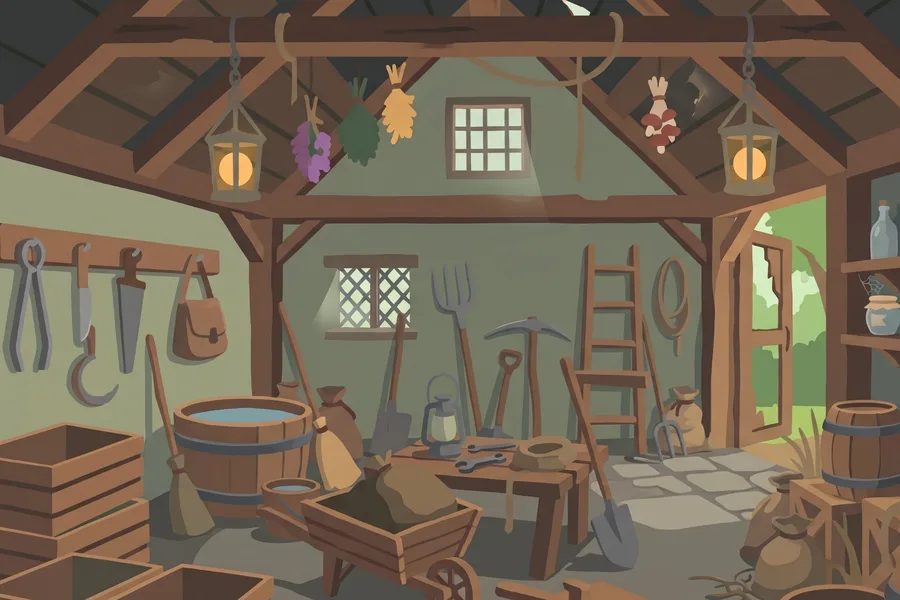
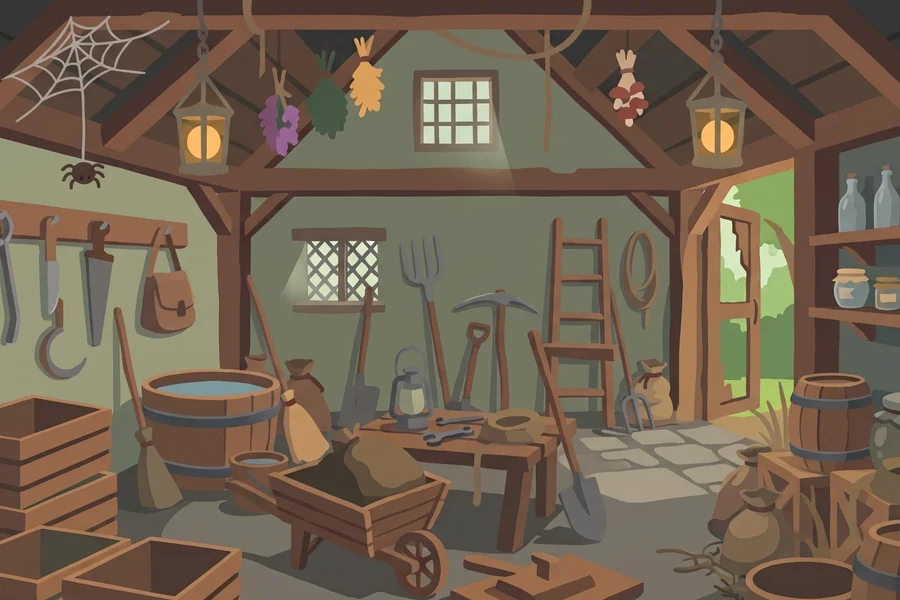
붉은 사과밭 빈 농가 — 그림 교체 (거미줄 있는 판) · 등불 자리 다시 잼
Claude-Session: https://claude.ai/code/session_01RZe6NgtUbyn7nAqzQfcGca

diff --git a/index.html b/index.html
@@ -13,11 +13,11 @@
 <link rel="preconnect" href="https://fonts.googleapis.com">
 <link rel="preconnect" href="https://fonts.gstatic.com" crossorigin>
 <link href="https://fonts.googleapis.com/css2?family=Noto+Sans+KR:wght@400;500;700;800;900&display=swap" rel="stylesheet">
-<link rel="stylesheet" href="style.css?v=20261020u">
+<link rel="stylesheet" href="style.css?v=20261020v">
 <!-- ⚠ UI 색상은 «첫 페인트 전»에 정해져야 한다 — 문서 끝에 두면 기본 색으로
      한 번 그려진 뒤에 얹혀서 다크를 고른 사람에게 흰 화면이 한 번 친다.
      그래서 여기만 `defer` 없이 `<head>` 에서 읽는다 (theme.js 주석 참고) -->
-<script src="theme.js?v=20261020u"></script>
+<script src="theme.js?v=20261020v"></script>
 </head>
 <body>
 
@@ -54,7 +54,7 @@
 <div id="splash" class="splash">
   <div class="splash-inner">
     <!-- 로고 이미지(logo.png)가 있으면 그것을 사용, 없으면 아래 SVG로 자동 폴백 -->
-    <img id="splashLogoImg" class="splash-logo" src="logo.png?v=20261020u" alt="Dream Syndicate Studio"
+    <img id="splashLogoImg" class="splash-logo" src="logo.png?v=20261020v" alt="Dream Syndicate Studio"
          onerror="this.remove(); var f=document.getElementById('splashLogoSvg'); if(f) f.style.display='block';">
     <svg id="splashLogoSvg" class="splash-logo" style="display:none" viewBox="0 0 240 240" xmlns="http://www.w3.org/2000/svg" role="img" aria-label="Dream Syndicate Studio">
       <defs>
@@ -1289,38 +1289,38 @@
 <!-- ── 토스트 ── -->
 <div id="toast" class="toast"></div>
 
-<script src="i18n.js?v=20261020u"></script>
-<script src="intro.js?v=20261020u"></script>
-<script src="data.js?v=20261020u"></script>
+<script src="i18n.js?v=20261020v"></script>
+<script src="intro.js?v=20261020v"></script>
+<script src="data.js?v=20261020v"></script>
 <!-- ⚠⚠ **`roomart.js` 는 «모듈보다 먼저»** 와야 한다. 방과 소품의 그림이 여기
      한 곳에 있고, 3D 방(room3d.js · ES 모듈)이 `window.RoomArt` 로 그것을 읽는다 —
      SVG 폴백(avatar.js)도 같은 캔버스를 data URL 로 쓴다.
      (평범한 스크립트가 모듈보다 먼저 도는 것이 규칙이지만, 순서로도 적어 둔다) -->
-<script src="roomart.js?v=20261020u"></script>
-<script src="crouchart.js?v=20261020u"></script>
-<script src="earart.js?v=20261020u"></script>
-<script src="avatar.js?v=20261020u"></script>
-<script src="village.js?v=20261020u"></script>
-<script src="portrait.js?v=20261020u"></script>
+<script src="roomart.js?v=20261020v"></script>
+<script src="crouchart.js?v=20261020v"></script>
+<script src="earart.js?v=20261020v"></script>
+<script src="avatar.js?v=20261020v"></script>
+<script src="village.js?v=20261020v"></script>
+<script src="portrait.js?v=20261020v"></script>
 <!-- 애교 모션의 리그. **`creature.js` 가 그릴 때 읽으므로 그보다 먼저** 둔다
      (없어도 게임은 돈다 — 그때는 크리처가 가만히 서 있다) -->
-<script src="petidle.js?v=20261020u"></script>
-<script src="creature.js?v=20261020u"></script>
-<script src="cauldron.js?v=20261020u"></script>
-<script src="pumpkin.js?v=20261020u"></script>
-<script src="walnut.js?v=20261020u"></script>
-<script src="rock.js?v=20261020u"></script>
-<script src="fish.js?v=20261020u"></script>
-<script src="sparrow.js?v=20261020u"></script>
-<script src="pinwheel.js?v=20261020u"></script>
-<script src="driller.js?v=20261020u"></script>
-<script src="sfx.js?v=20261020u"></script>
-<script src="sync.js?v=20261020u"></script>
+<script src="petidle.js?v=20261020v"></script>
+<script src="creature.js?v=20261020v"></script>
+<script src="cauldron.js?v=20261020v"></script>
+<script src="pumpkin.js?v=20261020v"></script>
+<script src="walnut.js?v=20261020v"></script>
+<script src="rock.js?v=20261020v"></script>
+<script src="fish.js?v=20261020v"></script>
+<script src="sparrow.js?v=20261020v"></script>
+<script src="pinwheel.js?v=20261020v"></script>
+<script src="driller.js?v=20261020v"></script>
+<script src="sfx.js?v=20261020v"></script>
+<script src="sync.js?v=20261020v"></script>
 <!-- 방을 3D 로 그리는 모듈. **모듈이라 미뤄져 실행된다** — 그래서 게임은
      이것이 «없어도» 돈다 (SVG 방 그대로). 준비되면 room3d-ready 로 알린다 -->
-<script type="module" src="room3d.js?v=20261020u"></script>
-<script src="game.js?v=20261020u"></script>
-<script src="tutorial.js?v=20261020u"></script>
-<script src="a11y.js?v=20261020u"></script>
+<script type="module" src="room3d.js?v=20261020v"></script>
+<script src="game.js?v=20261020v"></script>
+<script src="tutorial.js?v=20261020v"></script>
+<script src="a11y.js?v=20261020v"></script>
 </body>
 </html>

diff --git a/data.js b/data.js
@@ -1620,7 +1620,7 @@ const VILLAGES = [
     spots: [
       { id: 'vs_apple_orchard', emoji: '🍎', name: '과수원',   shape: 'farm',  x: 30, y: 37, art: 'villages/in-orchard.webp', butterflies: [[60, 120, 40, 22], [180, 95, 45, 28], [232, 150, 40, 18], [125, 172, 35, 12]] },
       { id: 'vs_apple_press',   emoji: '🍯', name: '착즙간',   shape: 'shop',  x: 73, y: 41, art: 'villages/in-press.webp', lamps: [[77.5, 54, 10], [248, 54, 10]] },
-      { id: 'vs_apple_empty',   emoji: '🏚', name: '빈 농가',  shape: 'ruin',  x: 33, y: 72, npc: 'sp_sylvan', art: 'villages/in-empty.webp', lamps: [[79, 56.5, 10], [249, 56.5, 10]] },
+      { id: 'vs_apple_empty',   emoji: '🏚', name: '빈 농가',  shape: 'ruin',  x: 33, y: 72, npc: 'sp_sylvan', art: 'villages/in-empty.webp', lamps: [[67.5, 46, 10], [238.5, 46, 10]] },
       { id: 'vs_apple_watch',   emoji: '🔭', name: '감시탑',   shape: 'tower', x: 85, y: 77, art: 'villages/in-watch.webp', lamps: [[160.5, 52, 12]] },
     ] },
   { id: 'vl_mirror',  emoji: '🪞', name: '거울 골짜기',   desc: '물으면 어김없이 대답이 돌아오는 골짜기.',
